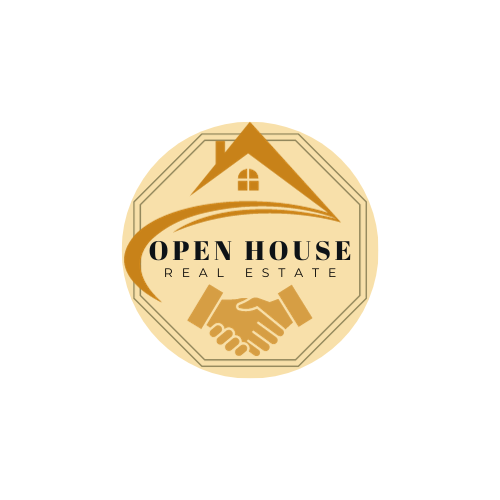
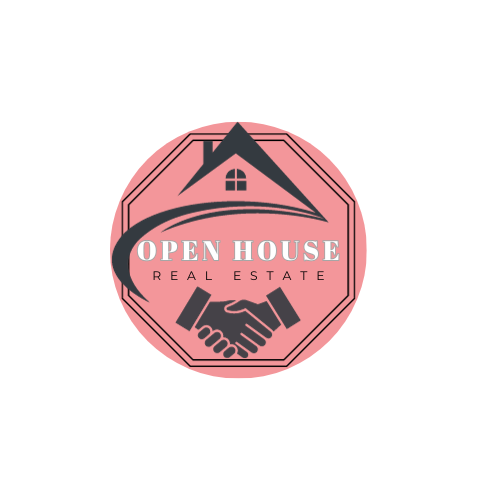
cambios en perfil-modificar perfil

Changed region(s): [[0.21, 0.24, 0.78, 0.78]]

diff --git a/src/main/resources/templates/perfil.html b/src/main/resources/templates/perfil.html
@@ -7,14 +7,15 @@
         <link href="https://cdn.jsdelivr.net/npm/bootstrap@5.3.2/dist/css/bootstrap.min.css" rel="stylesheet" integrity="sha384-T3c6CoIi6uLrA9TneNEoa7RxnatzjcDSCmG1MXxSR1GAsXEV/Dwwykc2MPK8M2HN" crossorigin="anonymous">
         <link rel="stylesheet" th:href="@{/css/perfil.css}">
     </head>
-    <body>
-       <style th:replace="/fragments/style_perfil :: style"></style>
+    <body style="background: lightgray!important">
+        <style th:replace="/fragments/style_perfil :: style"></style>
+        <nav th:replace="/fragments/navbar :: nav"></nav>
         <br><br>
 
 
         <div class="container">
             <div class="card">
-                <div style="background-color: #151D21!important" class="card-header d-flex align-items-center justify-content-evenly bg-danger"><h4 style=" color: #DFE2F2!important" class="fw-bold">Perfil</h4></div>
+                <div style="background-color: #343a40!important; margin:2px;" class="card-header d-flex align-items-center justify-content-evenly bg-danger"><h4 style=" color: #f3969a!important" class="fw-bold">Perfil</h4></div>
                 <div class="row g-0">
                     <div class="col-md-4 d-flex">
 
@@ -28,7 +29,7 @@
                     <div class="col-md-8">
                         <div class="card-body">
 
-                            <table style="border-color: inherit!important;border-style: double!important;" class="table">
+                            <table style="border-color: #343a40!important;border-style: double!important;" class="table">
                                 <tbody>
 
                                     <tr class="border-top-0 border-end-0 border-start-0 border-3 border-secondary">
@@ -40,6 +41,17 @@
                                         <th th:text="'Email: '+ ${session.usersession.email}" scope="row"></th>
 
                                     </tr>
+
+                                    <tr class="border-top-0 border-end-0 border-start-0 border-3 border-secondary">
+                                        <th th:text="'Celular: '+ ${session.usersession.phone}" scope="row"></th>
+
+                                    </tr>
+
+                                    <tr class="border-top-0 border-end-0 border-start-0 border-3 border-secondary">
+                                        <th th:text="'DNI: '+ ${session.usersession.Dni}" scope="row"></th>
+
+                                    </tr>
+
                                     <tr class="border-top-0 border-end-0 border-start-0 border-3 border-secondary">
                                         <th th:text="'Rol: '+ ${session.usersession.rol}" scope="row"></th>
 
@@ -49,12 +61,12 @@
                                 </tbody>
                             </table>
 
-                   
+
 
                         </div>
                     </div>
                 </div>
-                <div style="background-color: #151D21!important"  class="card-footer bg-danger ">
+                <div style="background-color: #343a40!important;margin:2px;"  class="card-footer bg-danger ">
                     <p class="fw-semibold " text= "'User Id : '+${user.id}" ></p>
                 </div>
             </div>

diff --git a/src/main/resources/templates/modificar_cliente.html b/src/main/resources/templates/modificar_cliente.html
@@ -14,20 +14,20 @@
 
 
 <body style="display: block!important">
-
-    <nav th:replace="/fragments/navbar :: nav"></nav>
+  <nav th:replace="/fragments/navbar :: nav"></nav>
+    
     <fieldset >
         <div class="top-20 end-80">
-            <div class="registrar" style="align-items: center!important; border-radius: 30px!important;
+            <div class="conteiner" style="align-items: center!important; border-radius: 30px!important;
                  margin: 40px!important;  margin-right: 10px!important; margin-left: 10px!important;"> 
 
                 <h1 class="saludo text-white" style="text-align: center; font-size:  var ">
-                    Hola »<span class="username-color" th:text="${cliente.name}"></span>« 
+                    Hola »<span class="username"style="color:#343a40;" th:text="${cliente.name}"></span>« 
                 </h1>
 
                 <div class="centered">
-                    <a class="d-flex align-items-center">
-                        <img class="logo"  th:src="@{/image/perfil/__${session.usersession.id}__}" height="100px;" >
+                    <a class="perfil img ">
+                        <img class="logo"  th:src="@{/image/perfil/__${session.usersession.id}__}" >
                     </a>
                 </div>
             </div>
@@ -81,6 +81,11 @@
             </div>
         </form>
     </div>
+    
+     <div class="container">
+            <footer th:replace="/fragments/footer :: footer" > </footer>
+        </div>
+    
     <script src="https://cdn.jsdelivr.net/npm/bootstrap@5.2.0-beta1/dist/js/bootstrap.bundle.min.js" integrity="sha384-pprn3073KE6tl6bjs2QrFaJGz5/SUsLqktiwsUTF55Jfv3qYSDhgCecCxMW52nD2" crossorigin="anonymous"></script>
 </body>
 </html>

diff --git a/src/main/resources/templates/fragments/footer.html b/src/main/resources/templates/fragments/footer.html
@@ -1,12 +1,12 @@
 <section>
-  <div class="b-example-divider"></div>
+  <div class="b-example-divider "></div>
 
   <div class="container">
     <footer class="d-flex flex-wrap justify-content-between align-items-center py-3 my-4 border-top">
       <div class="col-md-4 d-flex align-items-center">
         <a href="/" class="mb-3 me-2 mb-md-0 text-body-secondary text-decoration-none lh-1">
           <svg class="bi" width="30" height="24"><use xlink:href="#bootstrap"/></svg>
-          <img src="/img/iconoyaz.png" alt="Logo de Open-House" width="50" height="50">
+          <img src="/img/iconoyaz.png" alt="Logo de Open-House" width="70" height="60">
         </a>
         <span class="mb-3 mb-md-0 text-body-secondary">&copy; 2023 Open-House, Inc</span>
       </div>
@@ -15,7 +15,7 @@
         <li class="ms-3"><a class="text-body-secondary" href="#"><i class="bi bi-twitter"></i></a></li>
         <li class="ms-3"><a class="text-body-secondary" href="#"><i class="bi bi-instagram"></i></a></li>
         <li class="ms-3"><a class="text-body-secondary" href="#"><i class="bi bi-facebook"></i></a></li>
-    </ul>
+      </ul>
     </footer>
   </div>
-</section>     
+</section>

diff --git a/src/main/resources/templates/fragments/navbar.html b/src/main/resources/templates/fragments/navbar.html
@@ -3,7 +3,7 @@
         <a class="navbar-brand" th:href="@{/}">
             <!-- cambiar icon -->
             <img src="/img/iconoyaz.png" class="iconoyaz"
-                 width="50"
+                 width="180px"
                  alt="Logo de la pagina web"
                  />
         </a>
@@ -25,7 +25,8 @@
                         Perfil
                     </a>
                     <div class="dropdown-menu">
-                        <!-- <a class="dropdown-item" th:href="@{/login}">Iniciar Sesion</a> -->                        
+                        <!-- <a class="dropdown-item" th:href="@{/login}">Iniciar Sesion</a> -->   
+                           <a class="dropdown-item" th:href="@{/usuario/perfil}">Perfil</a>
                         <a class="dropdown-item" th:href="@{/modificarPerfil}">Modificar</a>
                         <div class="dropdown-divider"></div>
                         <a class="dropdown-item" sec:authorize="hasRole('ROLE_PROPIETARIO')" th:href="@{/propiedad/registrarPropiedad}">Cargar Propiedad</a>

diff --git a/src/main/resources/static/modificar_cliente.css b/src/main/resources/static/modificar_cliente.css
@@ -14,7 +14,7 @@ body {
     justify-content: center;
     align-items: center;
     margin: 0;
-     background: lightgray!important;
+    background: lightgray!important;
 
 }
 .form-container {
@@ -56,14 +56,25 @@ body {
 
 fieldset{
     padding: 20px!important;
-    max-width: 400px!important;
+    max-width: 450px!important;
     max-height: 300px!important;
     border-radius: 8px!important;
     margin-right: 100px!important;
-    background: lightcoral!important;
+    background: #f3969a!important;
     margin-top: 80px!important;
+
 }
 
 #modificar{
     color: #f3969a;
+}
+
+.perfil img{
+    align-items: center!important;
+    width: 80%;
+    height: 90%;
+    border-radius: 8px!important;
+    object-fit: contain;
+    box-shadow: 0 0 10px rgba(0, 0, 0, 0.5); 
+    
 }

diff --git a/src/main/resources/templates/fragments/style_perfil.html b/src/main/resources/templates/fragments/style_perfil.html
@@ -1,4 +1,5 @@
 <style>
+ 
 .centered {
 display: flex;
 justify-content: center;
@@ -36,30 +37,16 @@ margin-top: 20px; /* Ajusta el valoor */
 margin: 0;
 padding: 0;
 margin-bottom: 10px;
-background-color: grey;
+background-color: #f3969a;
 display: flex;
 justify-content: center;
 align-items: center;
 text-align: center;
 }
-.navbar-expand-lg .navbar-nav .dropdown-menu {
-    background-color: grey;
-} 
 
 .mb-2 {
     font-size: xx-large;
 }
-
-.navbar-brand  {
-    color:crimson;
-    font-weight: 550;
-    
-}
-
-.navbar-nav{
-    font-weight: 550;
-}
-
 
 
 tbody .table-secondary {

diff --git a/src/main/resources/static/css/perfil.css b/src/main/resources/static/css/perfil.css
@@ -1,5 +1,8 @@
 /*IMAGEN HEADER */
 
+html{
+    background: lightgray!important;
+}
 .header{
     margin:5px;
     background-color: #ecf0f3;
@@ -99,7 +102,7 @@
 }
 
 .tarjeta-index{
-    background-color: #ecf0f3;
+    background-color: #f3969a;
    /* box-shadow: 0px 0px 11px 6px #d1d9e6, 0px 0px 5px 0px #f9f9f9;*/
     border: none;
     border-radius: 12px;

diff --git a/src/main/resources/static/css/inicio.css b/src/main/resources/static/css/inicio.css
@@ -5,6 +5,7 @@
         height: 100px; 
         margin-top: 0.5rem;
         margin-bottom: 0.5rem;
+        margin: 1%
     
     
 }
